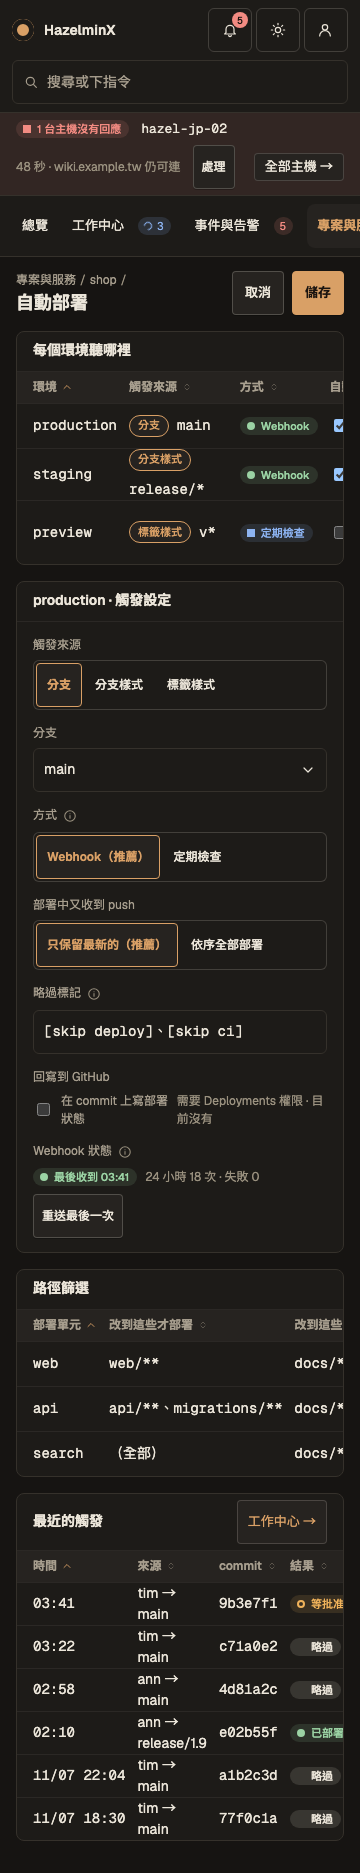
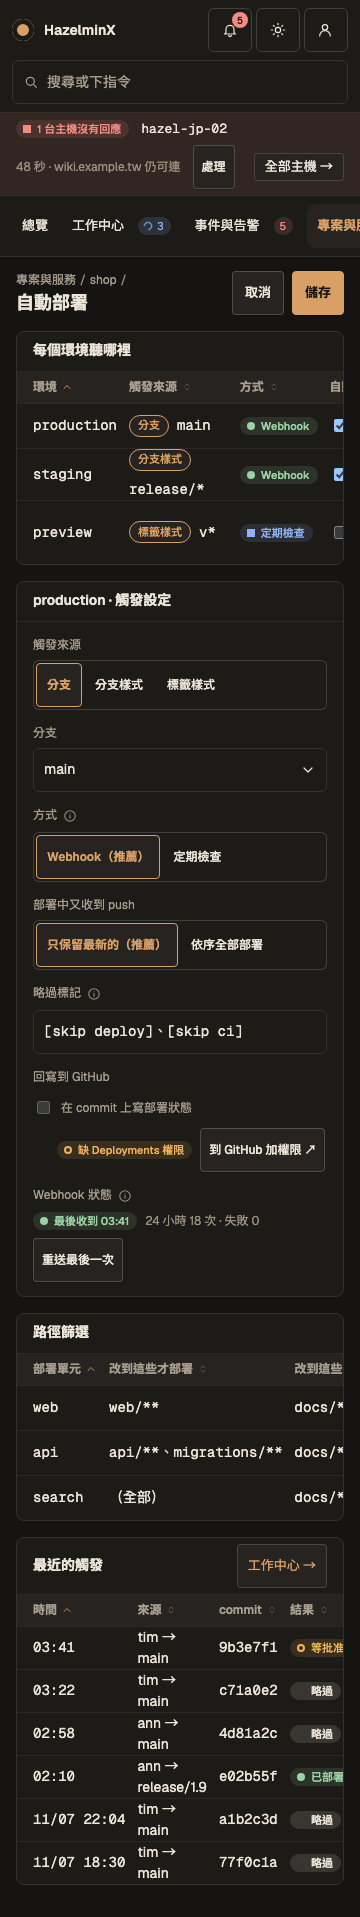
Put checkbox notes on the line below the option
A checkbox note sat beside its label and wrapped into two columns. Notes
and disabled reasons now go on the next line, aligned with the label.
The GitHub write-back option is a disabled box with the missing
permission and a link to add it. Rule added to DESIGN.md.

diff --git a/docs/design/screens/ProjectTriggers.dc.html b/docs/design/screens/ProjectTriggers.dc.html
@@ -484,7 +484,7 @@ body{margin:0}
       <div class="row r0"><span class="mono">production</span><span><span class="wrap"><span class="chip on">分支</span><span class="mono">main</span></span></span><span><span class="st ok"><i aria-hidden="true"></i>Webhook</span></span><span class="c3 mono">—</span><span class="c4">暫停等批准</span><span><label style="display:flex;gap:8px;align-items:center;min-height:32px"><input type="checkbox" checked aria-label="production 自動部署">開</label></span><span><span class="acts"><button type="button" class="ib" aria-label="更多" title="更多"><svg viewBox="0 0 24 24" width="16" height="16" fill="none" stroke="currentColor" stroke-width="1.8" stroke-linecap="round" stroke-linejoin="round" aria-hidden="true"><circle cx="6" cy="12" r="1.2"/><circle cx="12" cy="12" r="1.2"/><circle cx="18" cy="12" r="1.2"/></svg></button></span></span></div>
       <div class="row r0"><span class="mono">staging</span><span><span class="wrap"><span class="chip on">分支樣式</span><span class="mono">release/*</span></span></span><span><span class="st ok"><i aria-hidden="true"></i>Webhook</span></span><span class="c3 mono">—</span><span class="c4">暫停等批准</span><span><label style="display:flex;gap:8px;align-items:center;min-height:32px"><input type="checkbox" checked aria-label="staging 自動部署">開</label></span><span><span class="acts"><button type="button" class="ib" aria-label="更多" title="更多"><svg viewBox="0 0 24 24" width="16" height="16" fill="none" stroke="currentColor" stroke-width="1.8" stroke-linecap="round" stroke-linejoin="round" aria-hidden="true"><circle cx="6" cy="12" r="1.2"/><circle cx="12" cy="12" r="1.2"/><circle cx="18" cy="12" r="1.2"/></svg></button></span></span></div>
       <div class="row r0"><span class="mono">preview</span><span><span class="wrap"><span class="chip on">標籤樣式</span><span class="mono">v*</span></span></span><span><span class="st info"><i aria-hidden="true"></i>定期檢查</span></span><span class="c3 mono">5 分鐘</span><span class="c4">暫停等批准</span><span><label style="display:flex;gap:8px;align-items:center;min-height:32px"><input type="checkbox" aria-label="preview 自動部署">已暫停</label></span><span><span class="acts"><button type="button" class="ib" aria-label="更多" title="更多"><svg viewBox="0 0 24 24" width="16" height="16" fill="none" stroke="currentColor" stroke-width="1.8" stroke-linecap="round" stroke-linejoin="round" aria-hidden="true"><circle cx="6" cy="12" r="1.2"/><circle cx="12" cy="12" r="1.2"/><circle cx="18" cy="12" r="1.2"/></svg></button></span></span></div></div>
-</section><div class="cg"><section class="panel"><div class="ph"><h2>production · 觸發設定</h2></div><div style="padding:14px 16px;display:grid;grid-template-columns:repeat(auto-fit,minmax(min(240px,100%),1fr));gap:14px"><div class="field"><label>觸發來源</label><div class="range" role="group" aria-label="觸發來源" style="flex-wrap:wrap"><button type="button" class="btn on" aria-pressed="true">分支</button><button type="button" class="btn" aria-pressed="false">分支樣式</button><button type="button" class="btn" aria-pressed="false">標籤樣式</button></div></div><div class="field"><label>分支</label><div class="inp"><span style="flex:1;min-width:0;overflow-wrap:anywhere">main</span><svg viewBox="0 0 24 24" width="16" height="16" fill="none" stroke="currentColor" stroke-width="1.8" stroke-linecap="round" stroke-linejoin="round" aria-hidden="true"><path d="m6 9 6 6 6-6"/></svg></div></div><div class="field"><label>方式 <span class="hint" tabindex="0" role="img" aria-label="Webhook 需要 GitHub 能連到 hook.example.tw" data-tip="Webhook 需要 GitHub 能連到 hook.example.tw"><svg viewBox="0 0 24 24" width="14" height="14" fill="none" stroke="currentColor" stroke-width="1.8" stroke-linecap="round" stroke-linejoin="round" aria-hidden="true"><circle cx="12" cy="12" r="9"/><path d="M12 11v5M12 8h.01"/></svg></span></label><div class="range" role="group" aria-label="方式" style="flex-wrap:wrap"><button type="button" class="btn on" aria-pressed="true">Webhook（推薦）</button><button type="button" class="btn" aria-pressed="false">定期檢查</button></div></div><div class="field"><label>部署中又收到 push</label><div class="range" role="group" aria-label="連續推送" style="flex-wrap:wrap"><button type="button" class="btn on" aria-pressed="true">只保留最新的（推薦）</button><button type="button" class="btn" aria-pressed="false">依序全部部署</button></div></div><div class="field"><label>略過標記 <span class="hint" tabindex="0" role="img" aria-label="commit 訊息含這些字就不部署" data-tip="commit 訊息含這些字就不部署"><svg viewBox="0 0 24 24" width="14" height="14" fill="none" stroke="currentColor" stroke-width="1.8" stroke-linecap="round" stroke-linejoin="round" aria-hidden="true"><circle cx="12" cy="12" r="9"/><path d="M12 11v5M12 8h.01"/></svg></span></label><div class="inp"><span class="mono" style="flex:1;min-width:0;overflow-wrap:anywhere">[skip deploy]、[skip ci]</span></div></div><div class="field"><label>回寫到 GitHub</label><label style="display:flex;gap:8px;align-items:center;min-height:32px"><input type="checkbox">在 commit 上寫部署狀態 <span class="note">需要 Deployments 權限 · 目前沒有</span></label></div><div class="field"><label>Webhook 狀態 <span class="hint" tabindex="0" role="img" aria-label="push 了卻沒部署時先看這裡" data-tip="push 了卻沒部署時先看這裡"><svg viewBox="0 0 24 24" width="14" height="14" fill="none" stroke="currentColor" stroke-width="1.8" stroke-linecap="round" stroke-linejoin="round" aria-hidden="true"><circle cx="12" cy="12" r="9"/><path d="M12 11v5M12 8h.01"/></svg></span></label><div class="wrap"><span class="st ok"><i aria-hidden="true"></i>最後收到 03:41</span><span class="note">24 小時 18 次 · 失敗 0</span><button type="button" class="btn sm">重送最後一次</button></div></div></div></section><section class="panel"><div class="ph"><h2>路徑篩選</h2></div>
+</section><div class="cg"><section class="panel"><div class="ph"><h2>production · 觸發設定</h2></div><div style="padding:14px 16px;display:grid;grid-template-columns:repeat(auto-fit,minmax(min(240px,100%),1fr));gap:14px"><div class="field"><label>觸發來源</label><div class="range" role="group" aria-label="觸發來源" style="flex-wrap:wrap"><button type="button" class="btn on" aria-pressed="true">分支</button><button type="button" class="btn" aria-pressed="false">分支樣式</button><button type="button" class="btn" aria-pressed="false">標籤樣式</button></div></div><div class="field"><label>分支</label><div class="inp"><span style="flex:1;min-width:0;overflow-wrap:anywhere">main</span><svg viewBox="0 0 24 24" width="16" height="16" fill="none" stroke="currentColor" stroke-width="1.8" stroke-linecap="round" stroke-linejoin="round" aria-hidden="true"><path d="m6 9 6 6 6-6"/></svg></div></div><div class="field"><label>方式 <span class="hint" tabindex="0" role="img" aria-label="Webhook 需要 GitHub 能連到 hook.example.tw" data-tip="Webhook 需要 GitHub 能連到 hook.example.tw"><svg viewBox="0 0 24 24" width="14" height="14" fill="none" stroke="currentColor" stroke-width="1.8" stroke-linecap="round" stroke-linejoin="round" aria-hidden="true"><circle cx="12" cy="12" r="9"/><path d="M12 11v5M12 8h.01"/></svg></span></label><div class="range" role="group" aria-label="方式" style="flex-wrap:wrap"><button type="button" class="btn on" aria-pressed="true">Webhook（推薦）</button><button type="button" class="btn" aria-pressed="false">定期檢查</button></div></div><div class="field"><label>部署中又收到 push</label><div class="range" role="group" aria-label="連續推送" style="flex-wrap:wrap"><button type="button" class="btn on" aria-pressed="true">只保留最新的（推薦）</button><button type="button" class="btn" aria-pressed="false">依序全部部署</button></div></div><div class="field"><label>略過標記 <span class="hint" tabindex="0" role="img" aria-label="commit 訊息含這些字就不部署" data-tip="commit 訊息含這些字就不部署"><svg viewBox="0 0 24 24" width="14" height="14" fill="none" stroke="currentColor" stroke-width="1.8" stroke-linecap="round" stroke-linejoin="round" aria-hidden="true"><circle cx="12" cy="12" r="9"/><path d="M12 11v5M12 8h.01"/></svg></span></label><div class="inp"><span class="mono" style="flex:1;min-width:0;overflow-wrap:anywhere">[skip deploy]、[skip ci]</span></div></div><div class="field"><label>回寫到 GitHub</label><div style="display:flex;flex-direction:column;gap:4px"><label style="display:flex;gap:8px;align-items:center;min-height:32px;color:var(--muted)"><input type="checkbox" disabled aria-label="在 commit 上寫部署狀態（缺 Deployments 權限）">在 commit 上寫部署狀態</label><div class="wrap" style="padding-left:24px"><span class="st warn"><i aria-hidden="true"></i>缺 Deployments 權限</span><a class="btn sm" href="https://github.com/apps/hazelminx">到 GitHub 加權限 ↗</a></div></div></div><div class="field"><label>Webhook 狀態 <span class="hint" tabindex="0" role="img" aria-label="push 了卻沒部署時先看這裡" data-tip="push 了卻沒部署時先看這裡"><svg viewBox="0 0 24 24" width="14" height="14" fill="none" stroke="currentColor" stroke-width="1.8" stroke-linecap="round" stroke-linejoin="round" aria-hidden="true"><circle cx="12" cy="12" r="9"/><path d="M12 11v5M12 8h.01"/></svg></span></label><div class="wrap"><span class="st ok"><i aria-hidden="true"></i>最後收到 03:41</span><span class="note">24 小時 18 次 · 失敗 0</span><button type="button" class="btn sm">重送最後一次</button></div></div></div></section><section class="panel"><div class="ph"><h2>路徑篩選</h2></div>
       <div class="tw" style="--tc:auto auto minmax(min(160px,34%),1fr) auto"><div class="row hd r0"><span class=""><span class="sortable on">部署單元 <svg viewBox="0 0 24 24" width="12" height="12" fill="none" stroke="currentColor" stroke-width="1.8" stroke-linecap="round" stroke-linejoin="round" aria-hidden="true"><path d="m6 15 6-6 6 6"/></svg></span></span><span class=""><span class="sortable">改到這些才部署 <svg viewBox="0 0 24 24" width="12" height="12" fill="none" stroke="currentColor" stroke-width="1.8" stroke-linecap="round" stroke-linejoin="round" aria-hidden="true"><path d="m8 10 4-4 4 4"/><path d="m8 14 4 4 4-4"/></svg></span></span><span class=""><span class="sortable">改到這些不部署 <svg viewBox="0 0 24 24" width="12" height="12" fill="none" stroke="currentColor" stroke-width="1.8" stroke-linecap="round" stroke-linejoin="round" aria-hidden="true"><path d="m8 10 4-4 4 4"/><path d="m8 14 4 4 4-4"/></svg></span></span><span class=""></span></div>
       <div class="row r0"><span class="mono">web</span><span class="mono">web/**</span><span class="mono">docs/**、*.md</span><span><span class="acts"><button type="button" class="ib" aria-label="更多" title="更多"><svg viewBox="0 0 24 24" width="16" height="16" fill="none" stroke="currentColor" stroke-width="1.8" stroke-linecap="round" stroke-linejoin="round" aria-hidden="true"><circle cx="6" cy="12" r="1.2"/><circle cx="12" cy="12" r="1.2"/><circle cx="18" cy="12" r="1.2"/></svg></button></span></span></div>
       <div class="row r0"><span class="mono">api</span><span class="mono">api/**、migrations/**</span><span class="mono">docs/**、*.md</span><span><span class="acts"><button type="button" class="ib" aria-label="更多" title="更多"><svg viewBox="0 0 24 24" width="16" height="16" fill="none" stroke="currentColor" stroke-width="1.8" stroke-linecap="round" stroke-linejoin="round" aria-hidden="true"><circle cx="6" cy="12" r="1.2"/><circle cx="12" cy="12" r="1.2"/><circle cx="18" cy="12" r="1.2"/></svg></button></span></span></div>

diff --git a/docs/design/screens/ContainerResources.dc.html b/docs/design/screens/ContainerResources.dc.html
@@ -218,7 +218,7 @@ body{margin:0}
 .hb .fm{grid-template-columns:240px minmax(0,1fr) 280px}
 .hb .frow.sel{background:color-mix(in srgb,var(--hazel) 12%,transparent)}
 .hb .ck{display:inline-flex;align-items:center;justify-content:center;width:28px;min-height:28px}
-.hb .ck input{width:16px;height:16px;accent-color:var(--hazel);margin:0}
+.hb .ck input{width:16px;height:16px;accent-color:var(--hazel);margin:0}.hb input.lockck{accent-color:var(--hazel);pointer-events:none;cursor:not-allowed;opacity:.75}
 .hb .hd .sortable{display:inline-flex;align-items:center;gap:4px;cursor:pointer}
 .hb .hd .sortable svg{color:var(--faint);opacity:.5}
 .hb .hd .sortable.on svg{color:var(--hazel);opacity:1}
@@ -489,8 +489,8 @@ body{margin:0}
       <div class="row r0"><span>建置快取</span><span class="mono">6.4 GiB</span><span><span class="meter" role="meter" aria-valuenow="0" aria-valuemin="0" aria-valuemax="100" aria-label="—"><span class="tr" aria-hidden="true"><span class="fl" style="width: 0%"></span></span><span class="num">—</span></span></span><span class="mono">6.4 GiB</span></div>
       <div class="row r0"><span>容器日誌</span><span class="mono">3.1 GiB</span><span><span class="meter" role="meter" aria-valuenow="100" aria-valuemin="0" aria-valuemax="100" aria-label="3.1 GiB"><span class="tr" aria-hidden="true"><span class="fl dng" style="width: 100%"></span></span><span class="num">3.1 GiB</span></span></span><span class="mono">依日誌保留設定自動清</span></div></div></section><section class="panel"><div class="ph"><h2>清理預覽</h2></div>
       <div style="padding:12px 16px;display:flex;flex-direction:column;gap:10px">
-        <div class="wrap"><label style="display:flex;gap:8px;align-items:center;min-height:32px"><input type="checkbox" checked>未使用的映像（7 · 4.1 GiB）</label><label style="display:flex;gap:8px;align-items:center;min-height:32px"><input type="checkbox" checked>建置快取（6.4 GiB）</label><label style="display:flex;gap:8px;align-items:center;min-height:32px"><input type="checkbox">已停止的容器（2）</label><label style="display:flex;gap:8px;align-items:center;min-height:32px"><input type="checkbox">沒被使用的儲存卷（2 · 2.0 GiB） <span class="note">資料會消失</span></label></div>
-        <div class="wrap"><label style="display:flex;gap:8px;align-items:center;min-height:32px"><input type="checkbox" checked>保留回滾要用的映像 <span class="note">shop-api:88b1d02 仍是上一個可回滾版本</span></label><label style="display:flex;gap:8px;align-items:center;min-height:32px"><input type="checkbox" checked>只清超過 7 天的</label></div>
+        <div class="wrap"><label style="display:flex;gap:8px;align-items:center;min-height:32px"><input type="checkbox" checked>未使用的映像（7 · 4.1 GiB）</label><label style="display:flex;gap:8px;align-items:center;min-height:32px"><input type="checkbox" checked>建置快取（6.4 GiB）</label><label style="display:flex;gap:8px;align-items:center;min-height:32px"><input type="checkbox">已停止的容器（2）</label><div style="display:flex;flex-direction:column;gap:2px"><label style="display:flex;gap:8px;align-items:center;min-height:32px"><input type="checkbox">沒被使用的儲存卷（2 · 2.0 GiB）</label><span class="note" style="padding-left:24px">資料會消失</span></div></div>
+        <div class="wrap"><div style="display:flex;flex-direction:column;gap:2px"><label style="display:flex;gap:8px;align-items:center;min-height:32px"><input type="checkbox" checked>保留回滾要用的映像</label><span class="note" style="padding-left:24px">shop-api:88b1d02 仍是上一個可回滾版本</span></div><label style="display:flex;gap:8px;align-items:center;min-height:32px"><input type="checkbox" checked>只清超過 7 天的</label></div>
         <div class="wrap" style="justify-content:space-between"><span class="st ok"><i aria-hidden="true"></i>預計回收 9.7 GiB</span><button type="button" class="btn pri">清理</button></div>
       </div></section></div>
     <section class="panel" aria-labelledby="h-imgs" data-sort="3:desc" data-batch data-pages="1–6 / 23">

diff --git a/docs/design/tools/build_screens.py b/docs/design/tools/build_screens.py
@@ -3238,9 +3238,18 @@ def _seg(opts, on=0, label="選項"):
     return f'<div class="range" role="group" aria-label="{label}" style="flex-wrap:wrap">{btns}</div>'
 
 
-def _cb(label, on=True, note="", locked=""):
-    """locked：一定包含、不能取消的項目，顯示為已勾選加停用，滑過去說明原因。"""
-    n = f' <span class="note">{note}</span>' if note else ""
+def _cb(label, on=True, note="", locked="", off=""):
+    """locked：一定包含、不能取消的項目，顯示為已勾選加停用，滑過去說明原因。
+    off：目前不能用的選項，顯示為未勾選的停用框，原因寫在下一行。
+    note 一律放在選項文字下一行，不跟選項文字並排成兩欄。"""
+    if off:
+        return (f'<div style="display:flex;flex-direction:column;gap:4px"><label style="display:flex;gap:8px;align-items:center;min-height:32px;color:var(--muted)">'
+                f'<input type="checkbox" disabled aria-label="{label}（{off}）">{label}</label>'
+                f'<div class="wrap" style="padding-left:24px">{note}</div></div>')
+    if note:
+        return (f'<div style="display:flex;flex-direction:column;gap:2px"><label style="display:flex;gap:8px;align-items:center;min-height:32px"><input type="checkbox"{" checked" if on else ""}>{label}</label>'
+                f'<span class="note" style="padding-left:24px">{note}</span></div>')
+    n = ""
     if locked:
         return (f'<label style="display:flex;gap:8px;align-items:center;min-height:32px"><span tabindex="0" data-tip="{locked}">'
                 f'<input type="checkbox" class="lockck" checked aria-disabled="true" tabindex="-1" aria-label="{label}（{locked}）"></span>{label}{n}</label>')
@@ -4118,7 +4127,7 @@ def project_triggers() -> str:
         _fld("方式", _seg(["Webhook（推薦）", "定期檢查"], 0, "方式"), "Webhook 需要 GitHub 能連到 hook.example.tw"),
         _fld("部署中又收到 push", _seg(["只保留最新的（推薦）", "依序全部部署"], 0, "連續推送")),
         _fld("略過標記", _in("[skip deploy]、[skip ci]", mono=True), "commit 訊息含這些字就不部署"),
-        _fld("回寫到 GitHub", _cb("在 commit 上寫部署狀態", False, "需要 Deployments 權限 · 目前沒有"), ""),
+        _fld("回寫到 GitHub", _cb("在 commit 上寫部署狀態", False, U.status("warn", "缺 Deployments 權限") + '<a class="btn sm" href="https://github.com/apps/hazelminx">到 GitHub 加權限 ↗</a>', off="缺 Deployments 權限"), ""),
         _fld("Webhook 狀態", f'<div class="wrap">{U.status("ok", "最後收到 03:41")}<span class="note">24 小時 18 次 · 失敗 0</span><button type="button" class="btn sm">重送最後一次</button></div>', "push 了卻沒部署時先看這裡")))
     def pf(unit, inc, exc):
         return f'<div class="row"><span class="mono">{unit}</span><span class="mono">{inc}</span><span class="mono">{exc}</span><span>{U.actions(["more"])}</span></div>'
